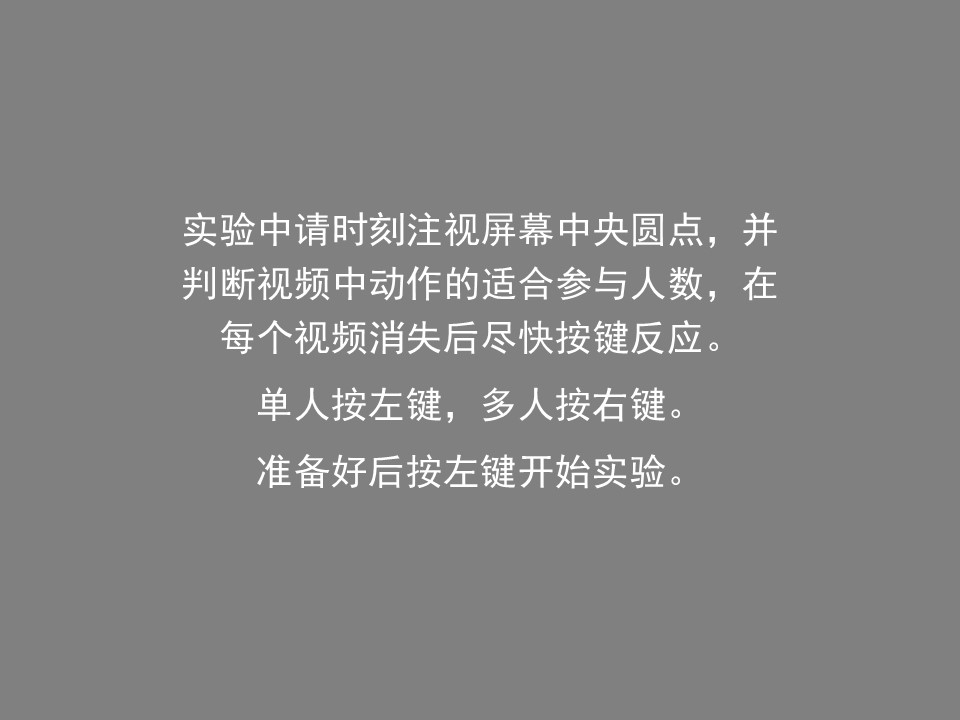
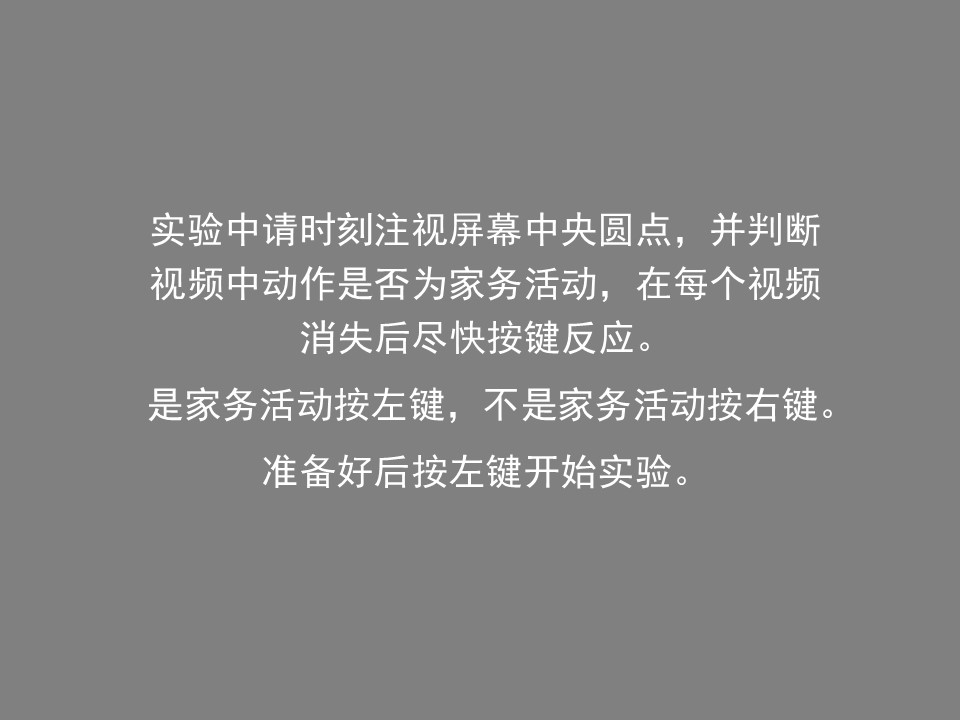
ENH: action task changed

diff --git a/action/actionHacsMRILoadTexture.m b/action/actionHacsMRILoadTexture.m
@@ -2,13 +2,11 @@ function trial = actionHacsMRILoadTexture(subID,sessID,runID)
 % function [subject,task] = actionHacsMRI(subID,sessID,runID)
 % Action HACS fMRI experiment stimulus procedure
 % 30 subject will do one session, the best 10 from them will do another 3 sessions
-% Subject do passive view task
+% Subject do household vs not-household activities task
 % subID, subjet ID, integer[1-30]
 % sessID, session ID, integer [1-4]
 % runID, run ID, integer [1-8]
 % workdir(or codeDir) -> sitmulus/instruciton/data 
-% subID=1;sessID=1;runID=1;
-if nargin < 3, sessID = 1; end
 
 %% Check subject information
 % Check subject id
@@ -43,13 +41,11 @@ if ~exist(subDir,'dir'), mkdir(subDir),end
 % Make session dir
 sessDir = fullfile(subDir,sprintf('sess%02d', sessID));
 if ~exist(sessDir,'dir'), mkdir(sessDir), end
-%% for Test checking
-if subID ==10086
-   subID = 1; 
-   Test = 1;
-else
-    Test = 0;
-end
+
+%% For Test checking
+if subID == 10086, subID = 1; Test = 1;
+else, Test = 0; end
+
 %% Screen setting
 Screen('Preference', 'SkipSyncTests', 2);
 if runID > 1
@@ -84,11 +80,11 @@ KbName('UnifyKeyNames'); % For cross-platform compatibility of keynaming
 startKey = KbName('s');
 escKey = KbName('ESCAPE');
 
-% Left hand for interior and right hand for exterior
-animateKey1 = KbName('1!'); % Left hand:1!
-animateKey2 = KbName('2@'); % Left hand:2@
-inanimateKey1 = KbName('3#'); % Right hand: 3#
-inanimateKey2 = KbName('4$'); % Right hand: 4$
+% Left hand for household and right hand for not-household
+householdKey1 = KbName('1!'); % Left hand:1!
+householdKey2 = KbName('2@'); % Left hand:2@
+notHouseholdKey1 = KbName('3#'); % Right hand: 3#
+notHouseholdKey2 = KbName('4$'); % Right hand: 4$
 
 %% Make design for this session
 % Set design dir
@@ -126,7 +122,7 @@ runClass = sessClass(:,runID);
 % Collect trial info for this run
 nStim = length(runStim);
 nTrial = nStim;
-trial = zeros(nTrial, 4); % [onset, class, dur, timing error]
+trial = zeros(nTrial, 6); % [onset, class, dur, key, RT, timing error]
 trial(:,1:3) = squeeze(sessPar(:,runID,:)); % % [onset, class, dur]
 
 %% Load stimulus and instruction
@@ -137,18 +133,16 @@ videoTextureSum = cell(nStim, 1);
 for t = 1:nStim
     % prepare params
     count = 1;          % Number of loaded movie frames.
-    lastpts = -1;       % Presentation timestamp of last frame.
-    pts = -1;
-    speed = 20;         % Play video in {speed}x the normal speed, 
+    speed = 80;         % Play video in {speed}x the normal speed, 
                         % Decreasing it will make preload textures slower
     % start loading stimulus
     videoPath = fullfile(stimDir, runClass{t}, runStim{t});
     [video,videoDur,fps] = Screen('OpenMovie', wptr, videoPath);
-    Screen('PlayMovie', video, speed, 0, 0);
+    Screen('PlayMovie', video, speed);
     % Initialize a texture container for this clip
     videoTextureTmp = zeros(ceil(videoDur * fps), 1); 
-    while (pts >= lastpts) && (count <= size(videoTextureTmp, 1))
-        [textureHandle, pts] = Screen('GetMovieImage', wptr, video);
+    while count <= size(videoTextureTmp, 1)
+        textureHandle = Screen('GetMovieImage', wptr, video);
         if textureHandle <= 0, break; end        % End of movie. break out of loop.
         videoTextureTmp(count) = textureHandle;  % Store its texture handle 
         count = count + 1;                       % Update count frame
@@ -173,7 +167,7 @@ Screen('Close',startTexture);
 while KbCheck(); end
 while true
     [keyIsDown,~,keyCode] = KbCheck();
-    if keyIsDown && (keyCode(animateKey1) || keyCode(animateKey2)), break;
+    if keyIsDown && (keyCode(householdKey1) || keyCode(householdKey2)), break;
     end
 end
 
@@ -199,6 +193,7 @@ endDur = 16; % ending fixation duration
 fixColor = [255 255 255]; % color of fixation 
 fixThickness = 2; % thickness of fixation 
 tEnd = [trial(2:end, 1);runDur]; % make sequence of tEnd
+if Test == 1, beginDur = 1;end  % test part
 
 % Show begining fixation
 Screen('FrameOval', wptr, fixColor, [xCenter-fixSize/2, yCenter-fixSize/2,...
@@ -215,28 +210,35 @@ for t = 1:nTrial
     count = size(videoTexture, 1);
     currentIndex = 1; % current index of frame
     tStim = GetSecs;
-    trial(t, 4) = tStim - tStart; % timing error
+    trial(t, 6) = tStim - tStart; % timing error
     
-    % If press escape, then break the experiment
+    % If subject responds in stimulus presenting, we record it
+    key = 0; rt = 0;
     while KbCheck(), end % empty the key buffer
     while GetSecs - tStim < onDur
+        % Draw movie frame
         tex = videoTexture(currentIndex);
-        % End of movie. break out of loop.
-        if tex <= 0, break; end
+        if tex <= 0, break; end   % End of movie. break out of loop.
         Screen('DrawTexture', wptr, tex, [], dsRect);
-        % wait response
-        [keyIsDown, ~, keyCode] = KbCheck();
-        if keyIsDown
-            if keyCode(escKey),sca; return; end
-        end
-        % Draw frame on the screen
+        currentIndex = mod(currentIndex, count) + 1;  % Update frame index
+
+        % Draw fixation on the screen
         Screen('FrameOval', wptr, fixColor, [xCenter-fixSize/2, yCenter-fixSize/2,...
             xCenter+fixSize/2, yCenter+fixSize/2], fixThickness);
         Screen('DrawingFinished',wptr);
         Screen('Flip', wptr);
         Screen('Close', tex)
-        % Update frame index
-        currentIndex = mod(currentIndex, count) + 1;
+        
+        % Wait response
+        [keyIsDown, tKey, keyCode] = KbCheck();
+        if keyIsDown
+            if keyCode(escKey),sca; return; 
+            elseif keyCode(householdKey1) || keyCode(householdKey2)
+                key = 1; rt = tKey - tStim;
+            elseif keyCode(notHouseholdKey1)|| keyCode(notHouseholdKey2)
+                key = -1; rt = tKey - tStim;
+            end
+        end
     end
         
     % Show fixation
@@ -245,14 +247,27 @@ for t = 1:nTrial
     Screen('DrawingFinished',wptr);
     Screen('Flip', wptr);
     
-    % If press escape, then break the experiment
-    while KbCheck(), end % empty the key buffer
-    while GetSecs - tStart < tEnd(t)
-        [keyIsDown, ~, keyCode] = KbCheck();
-        if keyIsDown
-            if keyCode(escKey),sca; return; end
+    % If subject has ready responded in stimtulus presenting, we'll not
+    % record it in fixation period; if not, we record it.
+    if rt
+        while GetSecs - tStart < tEnd(t)
+            [keyIsDown, ~, keyCode] = KbCheck();
+            if keyIsDown && keyCode(escKey), sca; return; end
+        end
+    else
+        while GetSecs - tStart < tEnd(t)
+            [keyIsDown, tKey, keyCode] = KbCheck();
+            if keyIsDown
+                if keyCode(escKey),sca; return;
+                elseif keyCode(householdKey1) || keyCode(householdKey2)
+                    key = 1; rt = tKey - tStim;
+                elseif keyCode(notHouseholdKey1)|| keyCode(notHouseholdKey2)
+                    key = -1; rt = tKey - tStim;
+                end
+            end
         end
     end
+    trial(t, 4:5) = [key,rt];
 end
 
 % Wait ending fixation

diff --git a/action/actionHacsMRI.m b/action/actionHacsMRI.m
@@ -2,22 +2,22 @@ function trial = actionHacsMRI(subID,sessID,runID)
 % function [subject,task] = actionHacsMRI(subID,sessID,runID)
 % Action HACS fMRI experiment stimulus procedure
 % 30 subject will do one session, the best 10 from them will do another 3 sessions
-% Subject do passive view task
+% Subject do household vs not-household activities task
 % subID, subjet ID, integer[1-30]
 % sessID, session ID, integer [1-4]
 % runID, run ID, integer [1-8]
 % workdir(or codeDir) -> sitmulus/instruciton/data 
-if nargin < 3, sessID = 1; end
 
 %% Check subject information
 % Check subject id
-if ~ismember(subID, [1:30,10086]), error('subID is a integer within [1:30]!'); end
+if ~ismember(subID, [1:30, 10086]), error('subID is a integer within [1:30]!'); end
 % Check session id
 if ~ismember(sessID, 1:4), error('sessID is a integer within [1:4]!');end
 % Check run id
 if ~ismember(runID, 1:8), error('runID is a integer within [1:8]!'); end
 nRun = 8;
 nRepeat = nRun/2; % repeat time of classes in one session
+
 % Check continued subject id
 continuedSubID = []; % complete it after the first part experiment.
 if (sessID > 1) && (~ismember(subID, continuedSubID))
@@ -42,13 +42,11 @@ if ~exist(subDir,'dir'), mkdir(subDir),end
 % Make session dir
 sessDir = fullfile(subDir,sprintf('sess%02d', sessID));
 if ~exist(sessDir,'dir'), mkdir(sessDir), end
-%% for Test checking
-if subID ==10086
-   subID = 1; 
-   Test = 1;
-else
-    Test = 0;
-end
+
+%% For Test checking
+if subID ==10086, subID = 1; Test = 1;
+else, Test = 0; end
+
 %% Screen setting
 Screen('Preference', 'SkipSyncTests', 2);
 if runID > 1
@@ -83,11 +81,11 @@ KbName('UnifyKeyNames'); % For cross-platform compatibility of keynaming
 startKey = KbName('s');
 escKey = KbName('ESCAPE');
 
-% Left hand for interior and right hand for exterior
-animateKey1 = KbName('1!'); % Left hand:1!
-animateKey2 = KbName('2@'); % Left hand:2@
-inanimateKey1 = KbName('3#'); % Right hand: 3#
-inanimateKey2 = KbName('4$'); % Right hand: 4$
+% Left hand for household and right hand for not-household
+householdKey1 = KbName('1!'); % Left hand:1!
+householdKey2 = KbName('2@'); % Left hand:2@
+notHouseholdKey1 = KbName('3#'); % Right hand: 3#
+notHouseholdKey2 = KbName('4$'); % Right hand: 4$
 
 %% Make design for this session
 % Set design dir
@@ -125,7 +123,7 @@ runClass = sessClass(:,runID);
 % Collect trial info for this run
 nStim = length(runStim);
 nTrial = nStim;
-trial = zeros(nTrial, 4); % [onset, class, dur, timing error]
+trial = zeros(nTrial, 6); % [onset, class, dur, key, RT, timing error]
 trial(:,1:3) = squeeze(sessPar(:,runID,:)); % % [onset, class, dur]
 
 %% Load stimulus and instruction
@@ -152,7 +150,7 @@ Screen('Close',startTexture);
 while KbCheck(); end
 while true
     [keyIsDown,~,keyCode] = KbCheck();
-    if keyIsDown && (keyCode(animateKey1) || keyCode(animateKey2)), break;
+    if keyIsDown && (keyCode(householdKey1) || keyCode(householdKey2)), break;
     end
 end
 readyDotColor = [255 0 0];
@@ -169,7 +167,7 @@ while true
     end
 end
 %% Run experiment
-flipInterval = Screen('GetFlipInterval', wptr);% get dur of frame
+flipInterval = Screen('GetFlipInterval', wptr);  % get dur of frame
 onDur = 2 - 0.5*flipInterval; % on duration for a stimulus
 runDur = 480; % duration for a run
 beginDur = 16; % beigining fixation duration
@@ -177,6 +175,7 @@ endDur = 16; % ending fixation duration
 fixColor = [255 255 255]; % color of fixation 
 fixThickness = 2; % thickness of fixation 
 tEnd = [trial(2:end, 1);runDur]; % make sequence of tEnd
+if Test == 1, beginDur = 1;end  % test part
 
 % Show begining fixation
 Screen('FrameOval', wptr, fixColor, [xCenter-fixSize/2, yCenter-fixSize/2,...
@@ -192,26 +191,34 @@ for t = 1:nTrial
     mvPtr = Screen('OpenMovie', wptr, videoPath{t});
     Screen('PlayMovie', mvPtr, 1); % 1 means the normal speed    
     tStim = GetSecs;
-    trial(t, 4) = tStim - tStart; % timing error
+    trial(t, 6) = tStim - tStart; % timing error
     
-    % If press escape, then break the experiment
+    % If subject responds in stimulus presenting, we record it
+    key = 0; rt = 0;
     while KbCheck(), end % empty the key buffer
     while GetSecs - tStim < onDur
+        % Draw movie frame
         tex = Screen('GetMovieImage', wptr, mvPtr);
-        % wait response
-        [keyIsDown, ~, keyCode] = KbCheck();
-        if keyIsDown
-            if keyCode(escKey),sca; return; end
-        end
-        % End of movie. break out of loop.
-        if tex <= 0, break; end
-        % Draw frame on the screen
+        if tex <= 0, break; end    % End of movie. break out of loop.
+        
+        % Draw fixation on the screen
         Screen('DrawTexture', wptr, tex, [], dsRect);
         Screen('FrameOval', wptr, fixColor, [xCenter-fixSize/2, yCenter-fixSize/2,...
             xCenter+fixSize/2, yCenter+fixSize/2], fixThickness);
         Screen('DrawingFinished',wptr);
         Screen('Flip', wptr);
         Screen('Close', tex)
+        
+        % Wait response
+        [keyIsDown, tKey, keyCode] = KbCheck();
+        if keyIsDown
+            if keyCode(escKey),sca; return; 
+            elseif keyCode(householdKey1) || keyCode(householdKey2)
+                key = 1; rt = tKey - tStim;
+            elseif keyCode(notHouseholdKey1)|| keyCode(notHouseholdKey2)
+                key = -1; rt = tKey - tStim;
+            end
+        end
     end
     % Close movie
     Screen('PlayMovie', mvPtr, 0); % 0 means stop playing
@@ -223,14 +230,27 @@ for t = 1:nTrial
     Screen('DrawingFinished',wptr);
     Screen('Flip', wptr);
     
-    % If press escape, then break the experiment
-    while KbCheck(), end % empty the key buffer
-    while GetSecs - tStart < tEnd(t)
-        [keyIsDown, ~, keyCode] = KbCheck();
-        if keyIsDown
-            if keyCode(escKey),sca; return; end
+    % If subject has ready responded in stimtulus presenting, we'll not
+    % record it in fixation period; if not, we record it.
+    if rt
+        while GetSecs - tStart < tEnd(t)
+            [keyIsDown, ~, keyCode] = KbCheck();
+            if keyIsDown && keyCode(escKey), sca; return; end
+        end
+    else
+        while GetSecs - tStart < tEnd(t)
+            [keyIsDown, tKey, keyCode] = KbCheck();
+            if keyIsDown
+                if keyCode(escKey),sca; return;
+                elseif keyCode(householdKey1) || keyCode(householdKey2)
+                    key = 1; rt = tKey - tStim;
+                elseif keyCode(notHouseholdKey1)|| keyCode(notHouseholdKey2)
+                    key = -1; rt = tKey - tStim;
+                end
+            end
         end
     end
+    trial(t, 4:5) = [key,rt];
 end
 
 % Wait ending fixation
